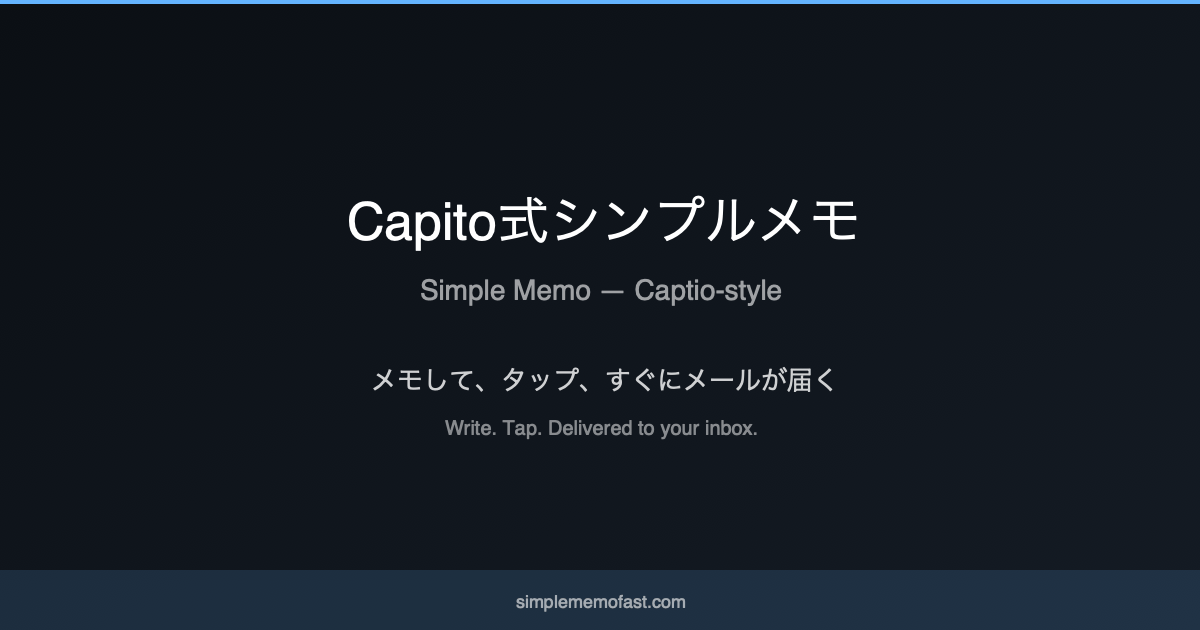
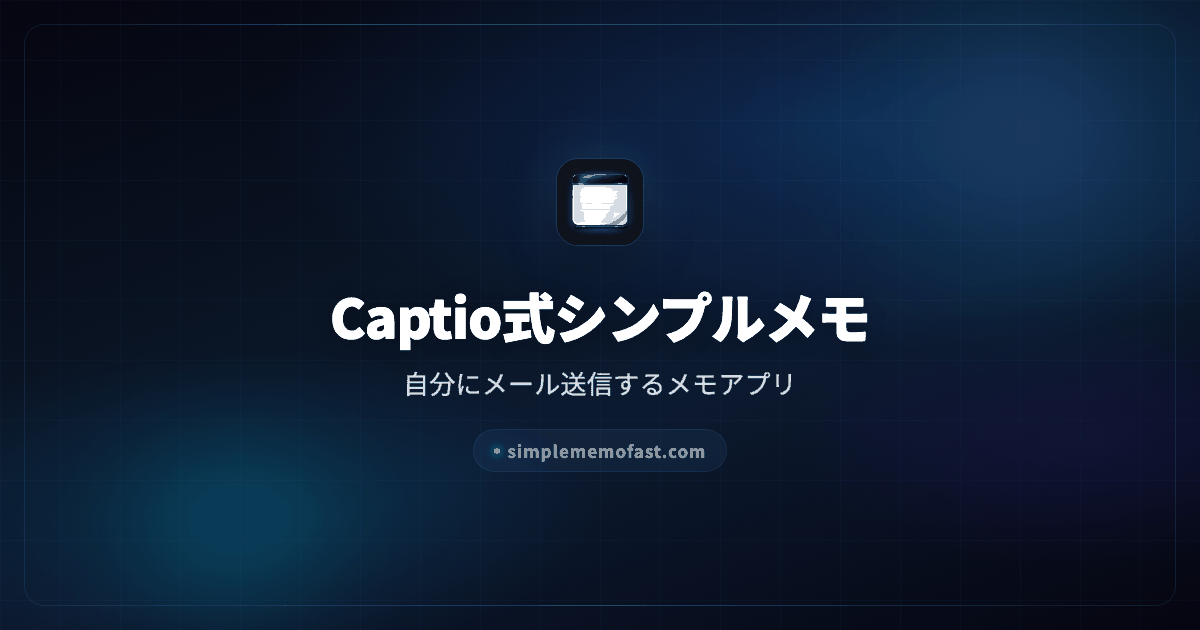
fix(seo): purge banned 0.3s claim + Capito typo from OG artwork — dedicated EN OGs, repoint 4 pages (#386)

diff --git a/en/captio-alternative/index.html b/en/captio-alternative/index.html
@@ -34,7 +34,7 @@
   <meta property="article:published_time" content="2026-02-13T00:00:00+09:00">
   <meta property="article:modified_time" content="2026-06-09T00:00:00+09:00">
   <meta property="og:url" content="https://simplememofast.com/en/captio-alternative/">
-  <meta property="og:image" content="https://simplememofast.com/assets/img/og-captio-alternative.png">
+  <meta property="og:image" content="https://simplememofast.com/assets/img/og/en-captio-alternative.png">
   <meta property="og:image:width" content="1200">
   <meta property="og:image:height" content="630">
   <meta property="og:site_name" content="Simple Memo - for Obsidian">
@@ -46,7 +46,7 @@
   <meta name="twitter:site" content="@simplememofast">
   <meta name="twitter:title" content="Captio Alternative 2026: 6 Best Apps Compared (Fastest ~1s)">
   <meta name="twitter:description" content="Captio has been discontinued. Simple Memo is the best Captio replacement — ~1s launch, one-tap send, offline support, and encryption.">
-  <meta name="twitter:image" content="https://simplememofast.com/assets/img/og-captio-alternative.png">
+  <meta name="twitter:image" content="https://simplememofast.com/assets/img/og/en-captio-alternative.png">
   <link rel="preconnect" href="https://analytics.ahrefs.com">
   <!-- i18n: managed by scripts/normalize_i18n_head.py -->
   <link rel="canonical" href="https://simplememofast.com/en/captio-alternative/">
@@ -62,7 +62,7 @@
   <link rel="manifest" href="/assets/favicon/site.webmanifest">
 
   <!-- JSON-LD: Article -->
-  <script type="application/ld+json">{"@context":"https://schema.org","@type":"Article","@id":"https://simplememofast.com/en/captio-alternative/#article","image":"https://simplememofast.com/assets/img/og-captio-alternative.png","headline":"Best Captio Alternative in 2026 — Comparison & Migration Guide","description":"Captio has been discontinued. Simple Memo recreates the same instant-send experience with independent infrastructure, offline support, and encryption. Full comparison with Draft, Moca, and Apple Notes.","url":"https://simplememofast.com/en/captio-alternative/","datePublished":"2026-02-13","dateModified":"2026-06-09","inLanguage":"en","author":{"@type":"Person","@id":"https://simplememofast.com/about/#person","name":"AI Ataka","url":"https://simplememofast.com/about/"},"publisher":{"@type":"Organization","name":"Simple Memo - for Obsidian","@id":"https://simplememofast.com/#organization","url":"https://simplememofast.com/","logo":{"@type":"ImageObject","url":"https://simplememofast.com/assets/img/app-icon-256.png","width":256,"height":256},"alternateName":["Captio式シンプルメモ","シンプルメモ","SimpleMemoFast","Simple Memo","Obsidian連携シンプルメモ"]},"mainEntityOfPage":{"@type":"WebPage","@id":"https://simplememofast.com/en/captio-alternative/"}}</script>
+  <script type="application/ld+json">{"@context":"https://schema.org","@type":"Article","@id":"https://simplememofast.com/en/captio-alternative/#article","image":"https://simplememofast.com/assets/img/og/en-captio-alternative.png","headline":"Best Captio Alternative in 2026 — Comparison & Migration Guide","description":"Captio has been discontinued. Simple Memo recreates the same instant-send experience with independent infrastructure, offline support, and encryption. Full comparison with Draft, Moca, and Apple Notes.","url":"https://simplememofast.com/en/captio-alternative/","datePublished":"2026-02-13","dateModified":"2026-06-09","inLanguage":"en","author":{"@type":"Person","@id":"https://simplememofast.com/about/#person","name":"AI Ataka","url":"https://simplememofast.com/about/"},"publisher":{"@type":"Organization","name":"Simple Memo - for Obsidian","@id":"https://simplememofast.com/#organization","url":"https://simplememofast.com/","logo":{"@type":"ImageObject","url":"https://simplememofast.com/assets/img/app-icon-256.png","width":256,"height":256},"alternateName":["Captio式シンプルメモ","シンプルメモ","SimpleMemoFast","Simple Memo","Obsidian連携シンプルメモ"]},"mainEntityOfPage":{"@type":"WebPage","@id":"https://simplememofast.com/en/captio-alternative/"}}</script>
 
   <!-- JSON-LD: BreadcrumbList -->
   <script type="application/ld+json">

diff --git a/en/iphone-shortcuts-email-guide/index.html b/en/iphone-shortcuts-email-guide/index.html
@@ -32,7 +32,7 @@
   <meta property="og:type" content="article">
   <meta property="article:published_time" content="2026-03-21T00:00:00+09:00">
   <meta property="og:url" content="https://simplememofast.com/en/iphone-shortcuts-email-guide/">
-  <meta property="og:image" content="https://simplememofast.com/assets/img/og-captio-alternative.png">
+  <meta property="og:image" content="https://simplememofast.com/assets/img/og/en-iphone-shortcuts-email-guide.png">
   <meta property="og:image:width" content="1200">
   <meta property="og:image:height" content="630">
   <meta property="og:site_name" content="Simple Memo - for Obsidian">
@@ -44,7 +44,7 @@
   <meta name="twitter:site" content="@simplememofast">
   <meta name="twitter:title" content="iPhone Shortcuts to Email Yourself: 5 Recipes (No Compose Sheet)">
   <meta name="twitter:description" content="5 free iPhone Shortcut recipes to email yourself instantly — plus the setting most tutorials miss: turn off 'Show Compose Sheet' for true one-tap sending.">
-  <meta name="twitter:image" content="https://simplememofast.com/assets/img/og-captio-alternative.png">
+  <meta name="twitter:image" content="https://simplememofast.com/assets/img/og/en-iphone-shortcuts-email-guide.png">
   <link rel="preconnect" href="https://analytics.ahrefs.com">
   <!-- i18n: managed by scripts/normalize_i18n_head.py -->
   <link rel="canonical" href="https://simplememofast.com/en/iphone-shortcuts-email-guide/">
@@ -57,7 +57,7 @@
   <link rel="manifest" href="/assets/favicon/site.webmanifest">
 
   <!-- JSON-LD: Article -->
-  <script type="application/ld+json">{"@context":"https://schema.org","@type":"Article","@id":"https://simplememofast.com/en/iphone-shortcuts-email-guide/#article","image":"https://simplememofast.com/assets/img/og-captio-alternative.png","headline":"iPhone Shortcuts to Email Yourself: 5 Recipes (No Compose Sheet)","description":"5 free iPhone Shortcut recipes to email yourself instantly — voice memos, screenshots, one-tap notes. Works with Apple Mail and Simple Memo.","url":"https://simplememofast.com/en/iphone-shortcuts-email-guide/","datePublished":"2026-03-21","dateModified":"2026-07-02","inLanguage":"en","author":{"@type":"Person","@id":"https://simplememofast.com/about/#person","name":"AI Ataka","url":"https://simplememofast.com/about/"},"publisher":{"@type":"Organization","name":"Simple Memo - for Obsidian","@id":"https://simplememofast.com/#organization","url":"https://simplememofast.com/","logo":{"@type":"ImageObject","url":"https://simplememofast.com/assets/img/app-icon-256.png","width":256,"height":256},"alternateName":["Captio式シンプルメモ","シンプルメモ","SimpleMemoFast","Simple Memo","Obsidian連携シンプルメモ"]},"mainEntityOfPage":{"@type":"WebPage","@id":"https://simplememofast.com/en/iphone-shortcuts-email-guide/"}}</script>
+  <script type="application/ld+json">{"@context":"https://schema.org","@type":"Article","@id":"https://simplememofast.com/en/iphone-shortcuts-email-guide/#article","image":"https://simplememofast.com/assets/img/og/en-iphone-shortcuts-email-guide.png","headline":"iPhone Shortcuts to Email Yourself: 5 Recipes (No Compose Sheet)","description":"5 free iPhone Shortcut recipes to email yourself instantly — voice memos, screenshots, one-tap notes. Works with Apple Mail and Simple Memo.","url":"https://simplememofast.com/en/iphone-shortcuts-email-guide/","datePublished":"2026-03-21","dateModified":"2026-07-02","inLanguage":"en","author":{"@type":"Person","@id":"https://simplememofast.com/about/#person","name":"AI Ataka","url":"https://simplememofast.com/about/"},"publisher":{"@type":"Organization","name":"Simple Memo - for Obsidian","@id":"https://simplememofast.com/#organization","url":"https://simplememofast.com/","logo":{"@type":"ImageObject","url":"https://simplememofast.com/assets/img/app-icon-256.png","width":256,"height":256},"alternateName":["Captio式シンプルメモ","シンプルメモ","SimpleMemoFast","Simple Memo","Obsidian連携シンプルメモ"]},"mainEntityOfPage":{"@type":"WebPage","@id":"https://simplememofast.com/en/iphone-shortcuts-email-guide/"}}</script>
 
   <!-- JSON-LD: BreadcrumbList -->
   <script type="application/ld+json">

diff --git a/tiktok/index.html b/tiktok/index.html
@@ -33,7 +33,7 @@
   <meta property="og:description" content="書いて、送って、受信箱へ。">
   <meta property="og:type" content="website">
   <meta property="og:url" content="https://simplememofast.com/tiktok/">
-  <meta property="og:image" content="https://simplememofast.com/assets/img/ogp.png">
+  <meta property="og:image" content="https://simplememofast.com/assets/img/og/index.png">
 
   <!-- Favicon -->
   <link rel="icon" href="/favicon.ico" sizes="any">

diff --git a/use-cases/index.html b/use-cases/index.html
@@ -55,7 +55,7 @@
   <link rel="manifest" href="/assets/favicon/site.webmanifest">
 
   <!-- JSON-LD: CollectionPage -->
-  <script type="application/ld+json">{"@context":"https://schema.org","@type":"CollectionPage","@id":"https://simplememofast.com/use-cases/#webpage","inLanguage":"ja","speakable":{"@type":"SpeakableSpecification","cssSelector":[".lp-hero__title",".lp-hero__sub",".use-case-card__title"]},"name":"活用事例 — Obsidian連携シンプルメモの使い方","description":"Obsidian連携シンプルメモの活用事例まとめ。仕事のタスク管理、買い物リスト、アイデアメモ、会議メモ、通勤メモ、子育てメモ、起業家メモ、ジャーナリングなど11のシーンで使い方を解説。どのシーンも設定は約1分、無料で1日3通までずっと使えます。","url":"https://simplememofast.com/use-cases/","publisher":{"@type":"Organization","name":"Obsidian連携シンプルメモ","@id":"https://simplememofast.com/#organization","url":"https://simplememofast.com/","logo":{"@type":"ImageObject","url":"https://simplememofast.com/assets/img/app-icon-256.png","width":256,"height":256},"alternateName":["Captio式シンプルメモ","シンプルメモ","SimpleMemoFast","Simple Memo","Simple Memo - for Obsidian"]},"hasPart":[{"@type":"Article","inLanguage":"ja","image":"https://simplememofast.com/assets/img/ogp.png","name":"仕事のタスク管理","url":"https://simplememofast.com/use-cases/work-tasks/"},{"@type":"Article","inLanguage":"ja","image":"https://simplememofast.com/assets/img/ogp.png","name":"買い物リスト","url":"https://simplememofast.com/use-cases/shopping-lists/"},{"@type":"Article","inLanguage":"ja","image":"https://simplememofast.com/assets/img/ogp.png","name":"アイデアメモ","url":"https://simplememofast.com/use-cases/ideas/"},{"@type":"Article","inLanguage":"ja","image":"https://simplememofast.com/assets/img/ogp.png","name":"会議メモ","url":"https://simplememofast.com/use-cases/meeting-notes/"},{"@type":"Article","inLanguage":"ja","image":"https://simplememofast.com/assets/img/ogp.png","name":"学生の勉強メモ","url":"https://simplememofast.com/use-cases/students/"},{"@type":"Article","inLanguage":"ja","image":"https://simplememofast.com/assets/img/ogp.png","name":"読書メモ","url":"https://simplememofast.com/use-cases/reading-notes/"},{"@type":"Article","inLanguage":"ja","image":"https://simplememofast.com/assets/img/ogp.png","name":"フリーランサーの仕事管理","url":"https://simplememofast.com/use-cases/freelancers/"},{"@type":"Article","inLanguage":"ja","image":"https://simplememofast.com/assets/img/ogp.png","name":"通勤中のメモ","url":"https://simplememofast.com/use-cases/commute/"},{"@type":"Article","inLanguage":"ja","image":"https://simplememofast.com/assets/img/ogp.png","name":"子育て中のメモ","url":"https://simplememofast.com/use-cases/parents/"},{"@type":"Article","inLanguage":"ja","image":"https://simplememofast.com/assets/img/ogp.png","name":"起業家のメモ","url":"https://simplememofast.com/use-cases/entrepreneurs/"},{"@type":"Article","inLanguage":"ja","image":"https://simplememofast.com/assets/img/ogp.png","name":"メールジャーナリング","url":"https://simplememofast.com/use-cases/journaling/"},{"@type":"Article","inLanguage":"ja","image":"https://simplememofast.com/assets/img/ogp.png","name":"料理メモ・レシピ管理","url":"https://simplememofast.com/use-cases/cooking/"},{"@type":"Article","inLanguage":"ja","image":"https://simplememofast.com/assets/img/ogp.png","name":"デザイナーのメモ活用法","url":"https://simplememofast.com/use-cases/designers/"},{"@type":"Article","inLanguage":"ja","image":"https://simplememofast.com/assets/img/ogp.png","name":"健康・ダイエット記録メモ","url":"https://simplememofast.com/use-cases/health/"},{"@type":"Article","inLanguage":"ja","image":"https://simplememofast.com/assets/img/ogp.png","name":"就活メモの整理術","url":"https://simplememofast.com/use-cases/job-hunting/"},{"@type":"Article","inLanguage":"ja","image":"https://simplememofast.com/assets/img/ogp.png","name":"マネージャー向けメモ活用法","url":"https://simplememofast.com/use-cases/managers/"},{"@type":"Article","inLanguage":"ja","image":"https://simplememofast.com/assets/img/ogp.png","name":"引っ越し準備メモ","url":"https://simplememofast.com/use-cases/moving/"},{"@type":"Article","inLanguage":"ja","image":"https://simplememofast.com/assets/img/ogp.png","name":"ペットケア記録メモ","url":"https://simplememofast.com/use-cases/pet-care/"},{"@type":"Article","inLanguage":"ja","image":"https://simplememofast.com/assets/img/ogp.png","name":"研究者のメモ活用法","url":"https://simplememofast.com/use-cases/researchers/"},{"@type":"Article","inLanguage":"ja","image":"https://simplememofast.com/assets/img/ogp.png","name":"教師・講師のメモ活用法","url":"https://simplememofast.com/use-cases/teachers/"},{"@type":"Article","inLanguage":"ja","image":"https://simplememofast.com/assets/img/ogp.png","name":"ライター・作家のメモ活用法","url":"https://simplememofast.com/use-cases/writers/"}],"isPartOf":{"@id":"https://simplememofast.com/#website"}}</script>
+  <script type="application/ld+json">{"@context":"https://schema.org","@type":"CollectionPage","@id":"https://simplememofast.com/use-cases/#webpage","inLanguage":"ja","speakable":{"@type":"SpeakableSpecification","cssSelector":[".lp-hero__title",".lp-hero__sub",".use-case-card__title"]},"name":"活用事例 — Obsidian連携シンプルメモの使い方","description":"Obsidian連携シンプルメモの活用事例まとめ。仕事のタスク管理、買い物リスト、アイデアメモ、会議メモ、通勤メモ、子育てメモ、起業家メモ、ジャーナリングなど11のシーンで使い方を解説。どのシーンも設定は約1分、無料で1日3通までずっと使えます。","url":"https://simplememofast.com/use-cases/","publisher":{"@type":"Organization","name":"Obsidian連携シンプルメモ","@id":"https://simplememofast.com/#organization","url":"https://simplememofast.com/","logo":{"@type":"ImageObject","url":"https://simplememofast.com/assets/img/app-icon-256.png","width":256,"height":256},"alternateName":["Captio式シンプルメモ","シンプルメモ","SimpleMemoFast","Simple Memo","Simple Memo - for Obsidian"]},"hasPart":[{"@type":"Article","inLanguage":"ja","image":"https://simplememofast.com/assets/img/og/use-cases.png","name":"仕事のタスク管理","url":"https://simplememofast.com/use-cases/work-tasks/"},{"@type":"Article","inLanguage":"ja","image":"https://simplememofast.com/assets/img/og/use-cases.png","name":"買い物リスト","url":"https://simplememofast.com/use-cases/shopping-lists/"},{"@type":"Article","inLanguage":"ja","image":"https://simplememofast.com/assets/img/og/use-cases.png","name":"アイデアメモ","url":"https://simplememofast.com/use-cases/ideas/"},{"@type":"Article","inLanguage":"ja","image":"https://simplememofast.com/assets/img/og/use-cases.png","name":"会議メモ","url":"https://simplememofast.com/use-cases/meeting-notes/"},{"@type":"Article","inLanguage":"ja","image":"https://simplememofast.com/assets/img/og/use-cases.png","name":"学生の勉強メモ","url":"https://simplememofast.com/use-cases/students/"},{"@type":"Article","inLanguage":"ja","image":"https://simplememofast.com/assets/img/og/use-cases.png","name":"読書メモ","url":"https://simplememofast.com/use-cases/reading-notes/"},{"@type":"Article","inLanguage":"ja","image":"https://simplememofast.com/assets/img/og/use-cases.png","name":"フリーランサーの仕事管理","url":"https://simplememofast.com/use-cases/freelancers/"},{"@type":"Article","inLanguage":"ja","image":"https://simplememofast.com/assets/img/og/use-cases.png","name":"通勤中のメモ","url":"https://simplememofast.com/use-cases/commute/"},{"@type":"Article","inLanguage":"ja","image":"https://simplememofast.com/assets/img/og/use-cases.png","name":"子育て中のメモ","url":"https://simplememofast.com/use-cases/parents/"},{"@type":"Article","inLanguage":"ja","image":"https://simplememofast.com/assets/img/og/use-cases.png","name":"起業家のメモ","url":"https://simplememofast.com/use-cases/entrepreneurs/"},{"@type":"Article","inLanguage":"ja","image":"https://simplememofast.com/assets/img/og/use-cases.png","name":"メールジャーナリング","url":"https://simplememofast.com/use-cases/journaling/"},{"@type":"Article","inLanguage":"ja","image":"https://simplememofast.com/assets/img/og/use-cases.png","name":"料理メモ・レシピ管理","url":"https://simplememofast.com/use-cases/cooking/"},{"@type":"Article","inLanguage":"ja","image":"https://simplememofast.com/assets/img/og/use-cases.png","name":"デザイナーのメモ活用法","url":"https://simplememofast.com/use-cases/designers/"},{"@type":"Article","inLanguage":"ja","image":"https://simplememofast.com/assets/img/og/use-cases.png","name":"健康・ダイエット記録メモ","url":"https://simplememofast.com/use-cases/health/"},{"@type":"Article","inLanguage":"ja","image":"https://simplememofast.com/assets/img/og/use-cases.png","name":"就活メモの整理術","url":"https://simplememofast.com/use-cases/job-hunting/"},{"@type":"Article","inLanguage":"ja","image":"https://simplememofast.com/assets/img/og/use-cases.png","name":"マネージャー向けメモ活用法","url":"https://simplememofast.com/use-cases/managers/"},{"@type":"Article","inLanguage":"ja","image":"https://simplememofast.com/assets/img/og/use-cases.png","name":"引っ越し準備メモ","url":"https://simplememofast.com/use-cases/moving/"},{"@type":"Article","inLanguage":"ja","image":"https://simplememofast.com/assets/img/og/use-cases.png","name":"ペットケア記録メモ","url":"https://simplememofast.com/use-cases/pet-care/"},{"@type":"Article","inLanguage":"ja","image":"https://simplememofast.com/assets/img/og/use-cases.png","name":"研究者のメモ活用法","url":"https://simplememofast.com/use-cases/researchers/"},{"@type":"Article","inLanguage":"ja","image":"https://simplememofast.com/assets/img/og/use-cases.png","name":"教師・講師のメモ活用法","url":"https://simplememofast.com/use-cases/teachers/"},{"@type":"Article","inLanguage":"ja","image":"https://simplememofast.com/assets/img/og/use-cases.png","name":"ライター・作家のメモ活用法","url":"https://simplememofast.com/use-cases/writers/"}],"isPartOf":{"@id":"https://simplememofast.com/#website"}}</script>
 
   <!-- JSON-LD: BreadcrumbList -->
   <script type="application/ld+json">